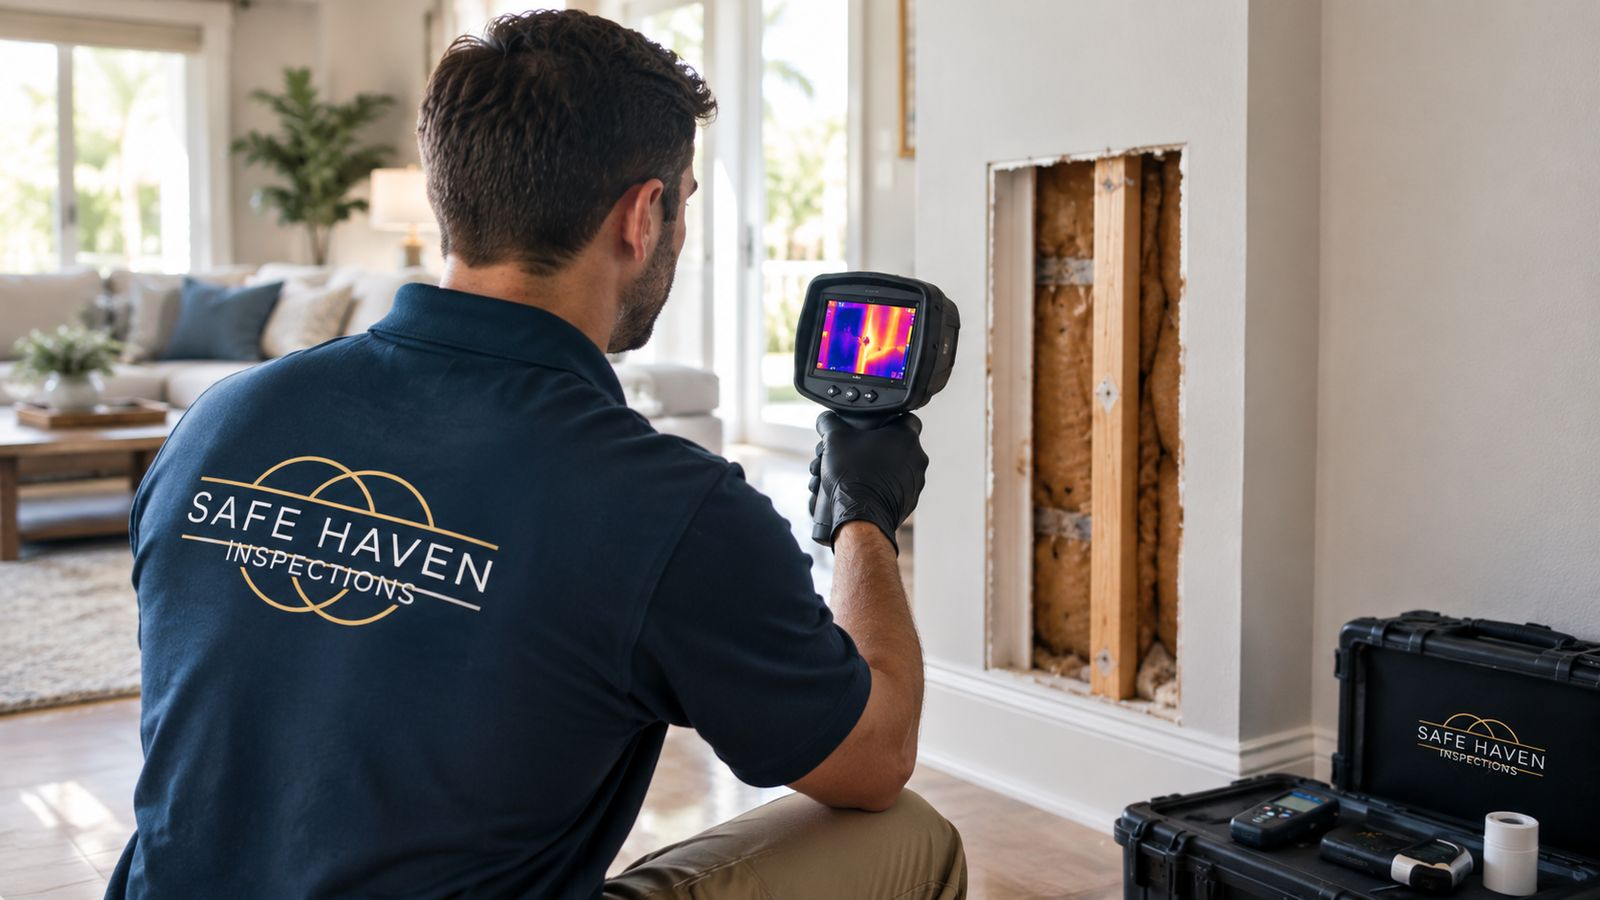
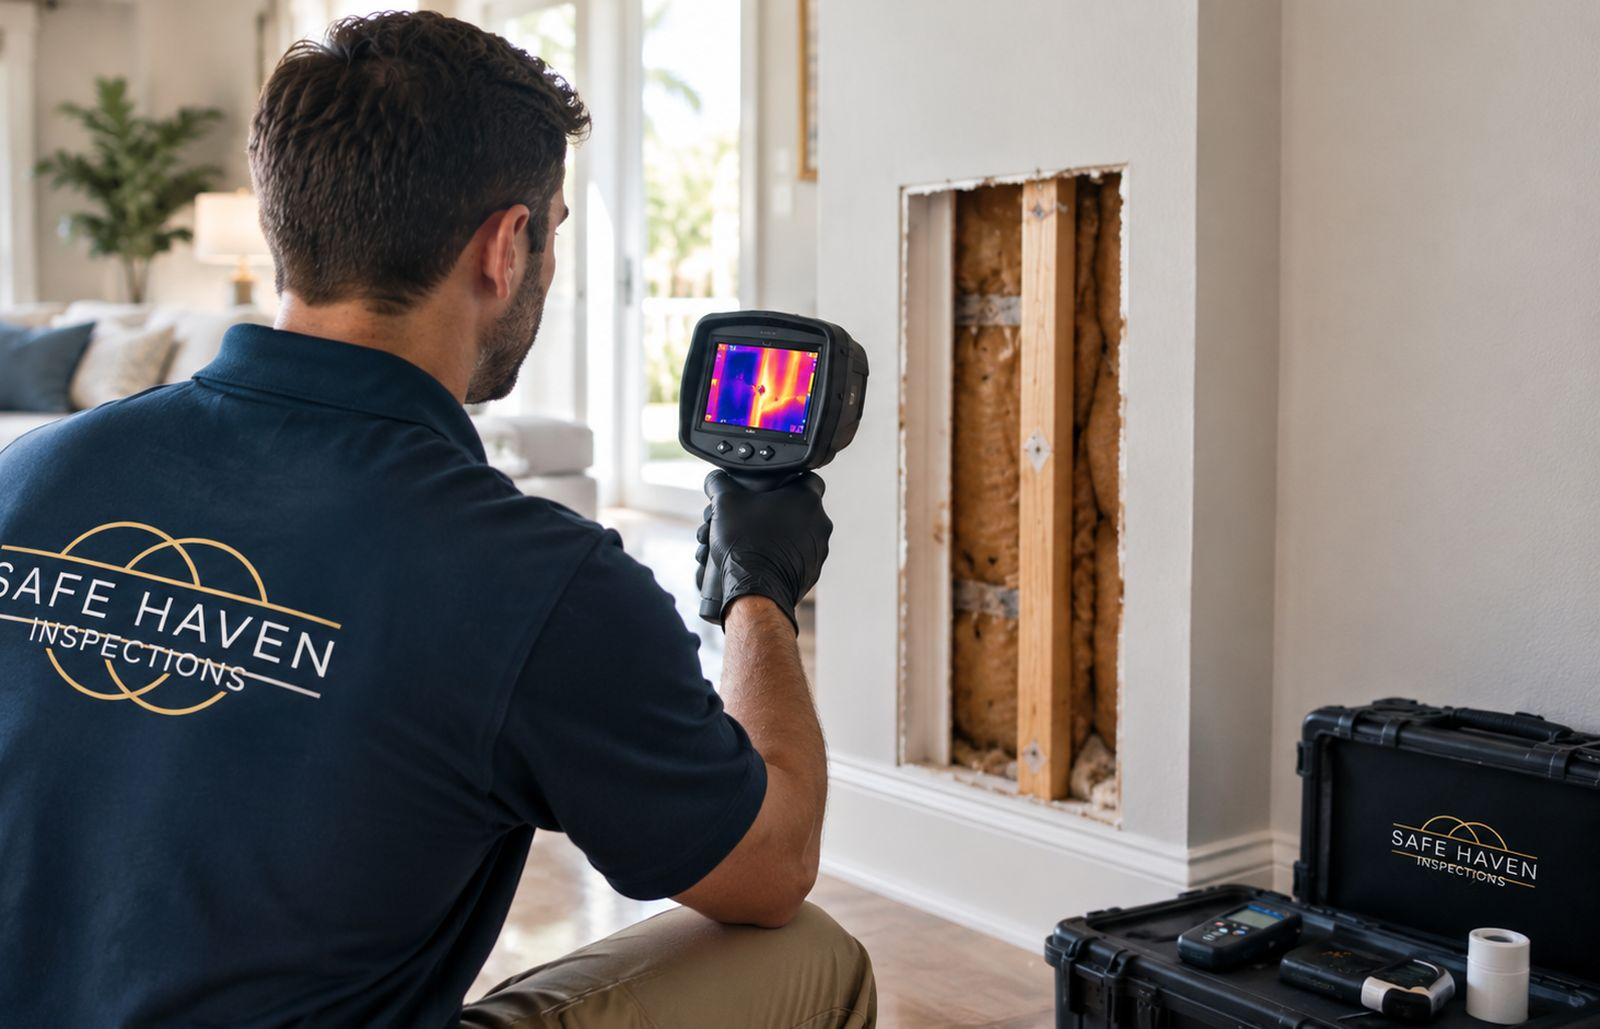
Home hero: shift the photo left and narrow the text so the thermal camera shows

diff --git a/src/routes/index.tsx b/src/routes/index.tsx
@@ -202,13 +202,13 @@ function Index() {
                 <CheckCircle2 className="h-4 w-4 text-[#FBBC04] sm:h-5 sm:w-5" /> Over 1,600 mold inspections completed
               </div>
             </div>
-            <h1 className="mt-4 text-4xl font-semibold leading-[1.05] text-white [text-shadow:0_2px_18px_rgba(0,0,0,0.55)] sm:text-5xl">
+            <h1 className="mt-4 text-4xl font-semibold leading-[1.05] text-white [text-shadow:0_2px_18px_rgba(0,0,0,0.55)] sm:text-5xl lg:max-w-[27rem]">
               Mold Inspection & Testing in Greenacres, FL
             </h1>
             <p className="mt-3 text-lg font-medium text-white/95 [text-shadow:0_2px_12px_rgba(0,0,0,0.55)] sm:text-xl">
               Family operated, with 14 years in the field.
             </p>
-            <p className="mt-5 hidden text-base text-white/95 [text-shadow:0_2px_12px_rgba(0,0,0,0.55)] sm:block sm:text-lg">
+            <p className="mt-5 hidden text-base text-white/95 [text-shadow:0_2px_12px_rgba(0,0,0,0.55)] sm:block sm:text-lg lg:max-w-[27rem]">
               Safe Haven Inspections is an independent, state-licensed mold inspection
               and testing company based in Greenacres, covering Palm Beach, Broward, and
               Martin County. We never sell the cleanup, so the answer you get is the
